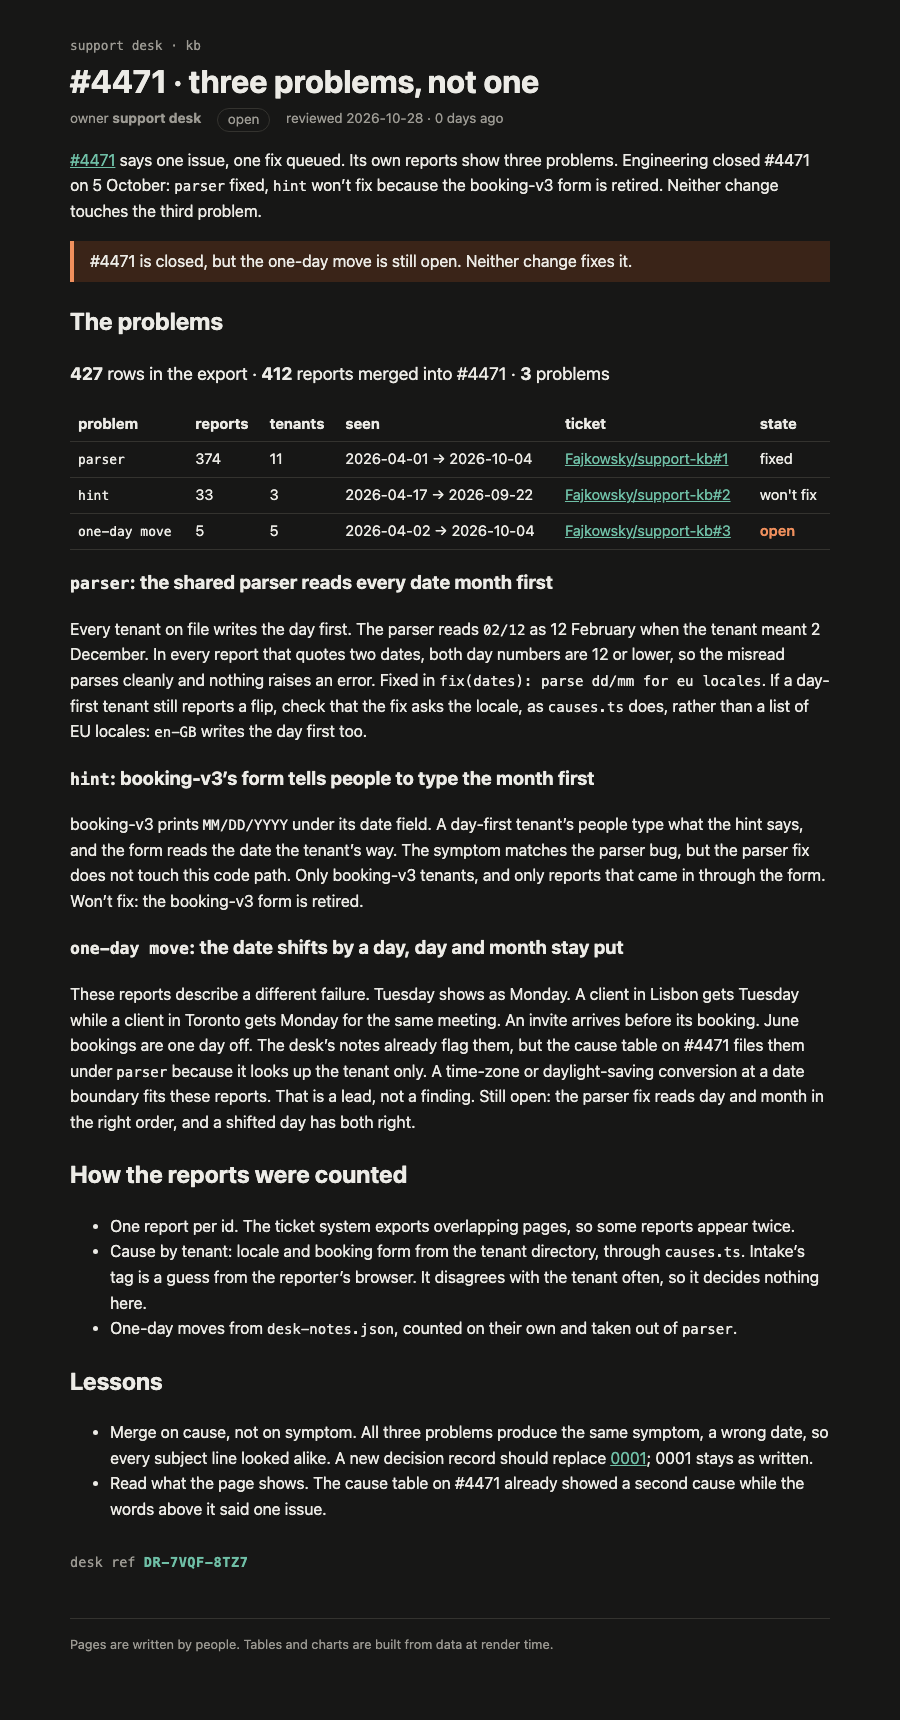
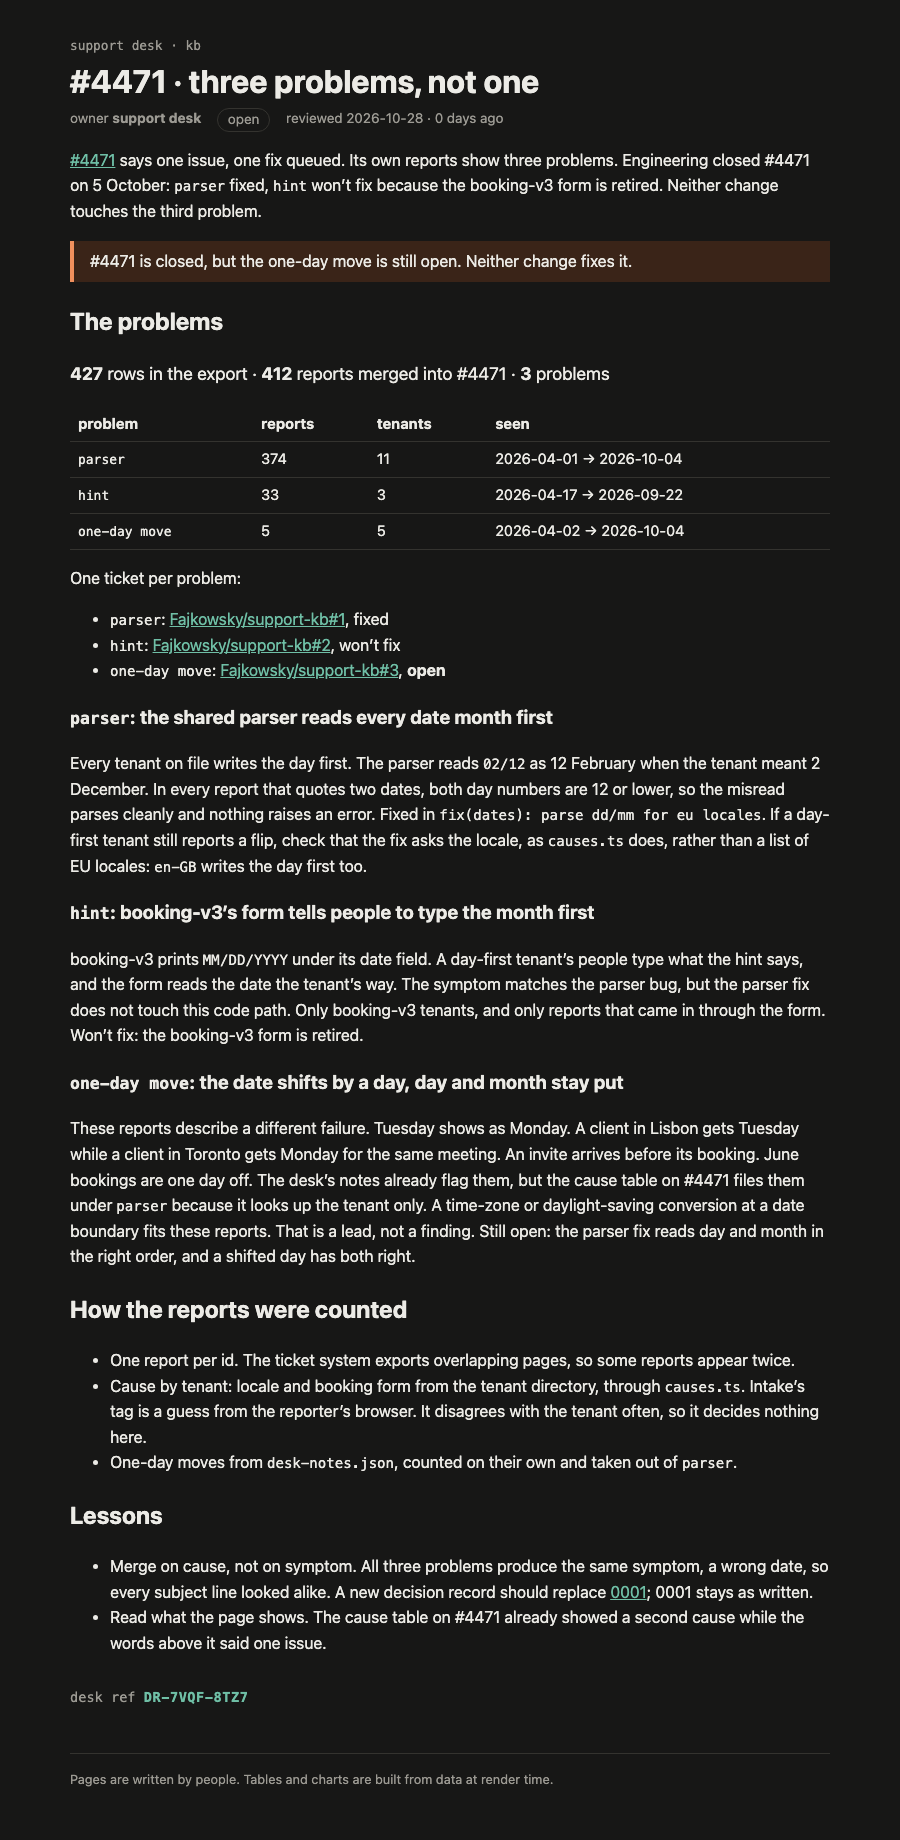
Link each ticket from the #4471 problems page text
The page named its tickets only through ProblemTable props, so its
source never held a ticket link. The links and their states are
words, so they move into the page; the table keeps the numbers.

Changed region(s): [[0.0622, 0.0, 0.9333, 0.9244], [0.0933, 0.9552, 0.6222, 0.986], [0.84, 0.2465, 0.9022, 0.3081]]

diff --git a/rendered/kb/incidents/4471/problems.html b/rendered/kb/incidents/4471/problems.html
@@ -9,11 +9,11 @@
 		<link href="../../../_app/immutable/chunks/B2Ul7l_u.js" rel="modulepreload">
 		<link href="../../../_app/immutable/chunks/BCPXOG7W.js" rel="modulepreload">
 		<link href="../../../_app/immutable/chunks/Dh1V97Jm.js" rel="modulepreload">
-		<link href="../../../_app/immutable/entry/app.DWnXs-pQ.js" rel="modulepreload">
+		<link href="../../../_app/immutable/entry/app.BeEW3s3N.js" rel="modulepreload">
 		<link href="../../../_app/immutable/nodes/0.C9KfiiPz.js" rel="modulepreload">
 		<link href="../../../_app/immutable/chunks/DK3Fl9T5.js" rel="modulepreload">
-		<link href="../../../_app/immutable/nodes/5.BCC8xvKn.js" rel="modulepreload">
-		<link href="../../../_app/immutable/chunks/B6C2bAN5.js" rel="modulepreload">
+		<link href="../../../_app/immutable/nodes/5.DhnwLrsj.js" rel="modulepreload">
+		<link href="../../../_app/immutable/chunks/BzVvKHru.js" rel="modulepreload">
 		<link href="../../../_app/immutable/chunks/BTPwLomz.js" rel="modulepreload">
 		<link href="../../../_app/immutable/chunks/CVBzP17p.js" rel="modulepreload">
 		<link href="../../../_app/immutable/chunks/BIy4WKJS.js" rel="modulepreload">
@@ -22,16 +22,16 @@
 
 aside.svelte-17bri61{border-left:4px solid var(--accent);background:var(--note-bg);margin:1rem 0;padding:.5rem 1rem}aside.warn.svelte-17bri61{border-color:var(--warn);background:var(--warn-bg)}
 
-.sum.svelte-1op6c6{font-size:1.1rem}.open.svelte-1op6c6{color:var(--warn);font-weight:600}.stamp.svelte-1280m42{font:.85rem var(--mono);color:var(--muted);margin:2rem 0 0}.stamp.svelte-1280m42 b:where(.svelte-1280m42){color:var(--accent);letter-spacing:.04em}.missing.svelte-1280m42{color:var(--warn)}
+.sum.svelte-1op6c6{font-size:1.1rem}.stamp.svelte-1280m42{font:.85rem var(--mono);color:var(--muted);margin:2rem 0 0}.stamp.svelte-1280m42 b:where(.svelte-1280m42){color:var(--accent);letter-spacing:.04em}.missing.svelte-1280m42{color:var(--warn)}
 </style>
 		<link href="../../../_app/immutable/assets/runbook.COyw0cbZ.css" rel="stylesheet" disabled media="(max-width: 0)">
 		<link href="../../../_app/immutable/assets/Callout.AbLv9dM_.css" rel="stylesheet" disabled media="(max-width: 0)">
-		<link href="../../../_app/immutable/assets/_page.CMnGdVaO.css" rel="stylesheet" disabled media="(max-width: 0)">
+		<link href="../../../_app/immutable/assets/_page.CgouBqEL.css" rel="stylesheet" disabled media="(max-width: 0)">
   </head>
   <body>
     <div style="display: contents"><!--[--><!--[--><!--[0--><!--[--><!--[--><!--[-1--><!--[--><div class="kb svelte-e2jw2j"><header><a class="crumb svelte-e2jw2j" href="/kb">support desk · kb</a> <h1 class="svelte-e2jw2j">#4471 · three problems, not one</h1> <p class="meta svelte-e2jw2j"><span>owner <b>support desk</b></span> <span class="status open svelte-e2jw2j">open</span> <span class="svelte-e2jw2j">reviewed 2026-10-28 · 0 days ago</span></p></header> <!--[-1--><!--]--> <main><p><a href="/kb/incidents/4471">#4471</a> says one issue, one fix queued. Its own reports show three problems.
 Engineering closed #4471 on 5 October: <code>parser</code> fixed, <code>hint</code> won’t fix because the booking-v3
-form is retired. Neither change touches the third problem.</p> <aside class="warn svelte-17bri61"><!---->#4471 is closed, but the one-day move is still open. Neither change fixes it.<!----></aside><!----> <h2>The problems</h2> <p class="sum svelte-1op6c6"><strong>427</strong> rows in the export · <strong>412</strong> reports merged into #4471 · <strong>3</strong> problems</p> <table><thead><tr><th>problem</th><th>reports</th><th>tenants</th><th>seen</th><th>ticket</th><th>state</th></tr></thead><tbody><!--[--><tr><td><code>parser</code></td><td>374</td><td>11</td><td>2026-04-01 → 2026-10-04</td><!--[0--><td><a href="https://github.com/Fajkowsky/support-kb/issues/1">Fajkowsky/support-kb#1</a></td> <td class="svelte-1op6c6">fixed</td><!--]--></tr><tr><td><code>hint</code></td><td>33</td><td>3</td><td>2026-04-17 → 2026-09-22</td><!--[0--><td><a href="https://github.com/Fajkowsky/support-kb/issues/2">Fajkowsky/support-kb#2</a></td> <td class="svelte-1op6c6">won't fix</td><!--]--></tr><tr><td><code>one-day move</code></td><td>5</td><td>5</td><td>2026-04-02 → 2026-10-04</td><!--[0--><td><a href="https://github.com/Fajkowsky/support-kb/issues/3">Fajkowsky/support-kb#3</a></td> <td class="svelte-1op6c6 open">open</td><!--]--></tr><!--]--></tbody></table><!----> <h3><code>parser</code>: the shared parser reads every date month first</h3> <p>Every tenant on file writes the day first. The parser reads <code>02/12</code> as 12 February when the
+form is retired. Neither change touches the third problem.</p> <aside class="warn svelte-17bri61"><!---->#4471 is closed, but the one-day move is still open. Neither change fixes it.<!----></aside><!----> <h2>The problems</h2> <p class="sum svelte-1op6c6"><strong>427</strong> rows in the export · <strong>412</strong> reports merged into #4471 · <strong>3</strong> problems</p> <table><thead><tr><th>problem</th><th>reports</th><th>tenants</th><th>seen</th></tr></thead><tbody><!--[--><tr><td><code>parser</code></td><td>374</td><td>11</td><td>2026-04-01 → 2026-10-04</td></tr><tr><td><code>hint</code></td><td>33</td><td>3</td><td>2026-04-17 → 2026-09-22</td></tr><tr><td><code>one-day move</code></td><td>5</td><td>5</td><td>2026-04-02 → 2026-10-04</td></tr><!--]--></tbody></table><!----> <p>One ticket per problem:</p> <ul><li><code>parser</code>: <a href="https://github.com/Fajkowsky/support-kb/issues/1" rel="nofollow">Fajkowsky/support-kb#1</a>, fixed</li> <li><code>hint</code>: <a href="https://github.com/Fajkowsky/support-kb/issues/2" rel="nofollow">Fajkowsky/support-kb#2</a>, won’t fix</li> <li><code>one-day move</code>: <a href="https://github.com/Fajkowsky/support-kb/issues/3" rel="nofollow">Fajkowsky/support-kb#3</a>, <strong>open</strong></li></ul> <h3><code>parser</code>: the shared parser reads every date month first</h3> <p>Every tenant on file writes the day first. The parser reads <code>02/12</code> as 12 February when the
 tenant meant 2 December. In every report that quotes two dates, both day numbers are 12 or
 lower, so the misread parses cleanly and nothing raises an error. Fixed in <code>fix(dates): parse dd/mm for eu locales</code>. If a day-first tenant still reports a flip, check that
 the fix asks the locale, as <code>causes.ts</code> does, rather than a list of EU locales: <code>en-GB</code> writes the
@@ -52,16 +52,16 @@ words above it said one issue.</li></ul> <!--[0--><p class="stamp svelte-1280m42
 			
 			<script>
 				{
-					__sveltekit_lbwzdg = {
+					__sveltekit_1ijmhdg = {
 						base: new URL("../../..", location).pathname.slice(0, -1),
-						version: "1793165573385"
+						version: "1793166020493"
 					};
 
 					const element = document.currentScript.parentElement;
 
 					import("../../../_app/immutable/entry/start.CH5w6lId.js").then(async (kit) => {
-						kit.init(__sveltekit_lbwzdg);
-						const app = await import("../../../_app/immutable/entry/app.DWnXs-pQ.js");
+						kit.init(__sveltekit_1ijmhdg);
+						const app = await import("../../../_app/immutable/entry/app.BeEW3s3N.js");
 						kit.start(app, element, {
 							node_ids: [0, 5],
 							data: [null,null],

diff --git a/src/lib/kb/ProblemTable.svelte b/src/lib/kb/ProblemTable.svelte
@@ -6,9 +6,7 @@
 
   // One row per problem in a ticket, each counted once: the causes causes.ts finds, minus the reports
   // the desk read as a one-day move (desk-notes.json), which are a problem of their own.
-  // `tickets`: problem → the issue in the GitHub `repo` that tracks it, and where that issue stands.
-  type Tracked = { issue: number; state: string };
-  let { ticket, repo, tickets = {} }: { ticket: number; repo: string; tickets?: Record<string, Tracked> } = $props();
+  let { ticket }: { ticket: number } = $props();
 
   const merged = $derived(uniqueById(reports as Report[]).filter((r) => r.mergedInto === ticket));
   const isOneDayMove = (r: Report) => notes.oneDayMove.includes(r.id);
@@ -27,7 +25,7 @@
 
 <table>
   <thead>
-    <tr><th>problem</th><th>reports</th><th>tenants</th><th>seen</th><th>ticket</th><th>state</th></tr>
+    <tr><th>problem</th><th>reports</th><th>tenants</th><th>seen</th></tr>
   </thead>
   <tbody>
     {#each problems as p (p.cause)}
@@ -36,13 +34,6 @@
         <td>{p.reports.length}</td>
         <td>{p.tenants}</td>
         <td>{p.firstSeen} → {p.lastSeen}</td>
-        {#if tickets[p.cause]}
-          <td><a href="https://github.com/{repo}/issues/{tickets[p.cause].issue}">{repo}#{tickets[p.cause].issue}</a></td>
-          <td class:open={tickets[p.cause].state === 'open'}>{tickets[p.cause].state}</td>
-        {:else}
-          <td>none yet</td>
-          <td class="open">open</td>
-        {/if}
       </tr>
     {/each}
   </tbody>
@@ -50,5 +41,4 @@
 
 <style>
   .sum { font-size: 1.1rem; }
-  .open { color: var(--warn); font-weight: 600; }
 </style>
